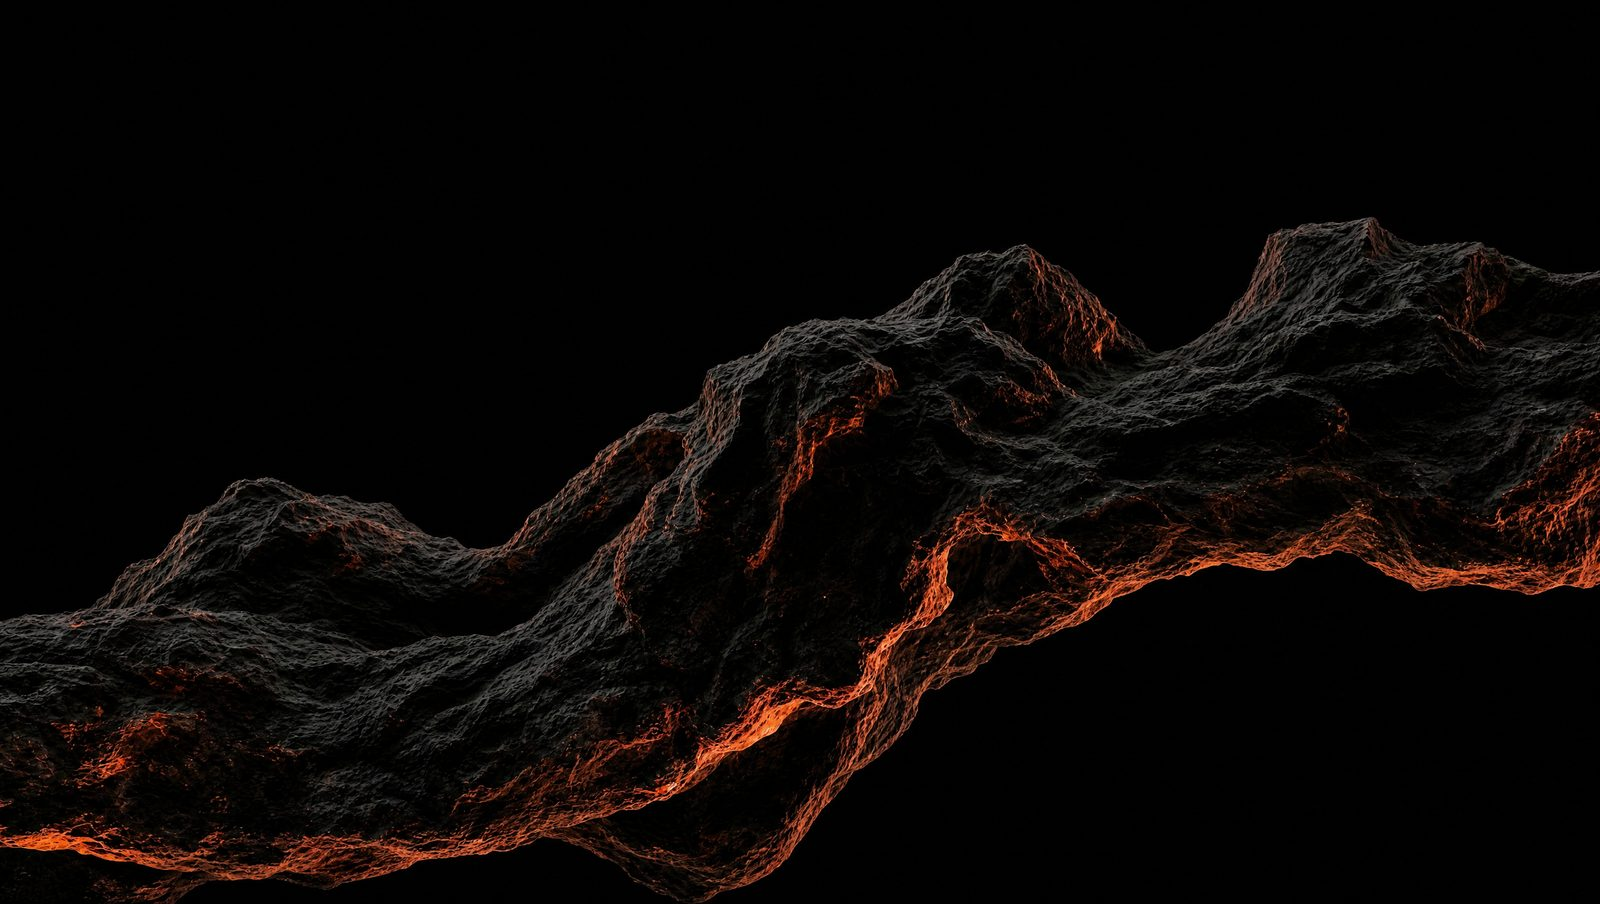
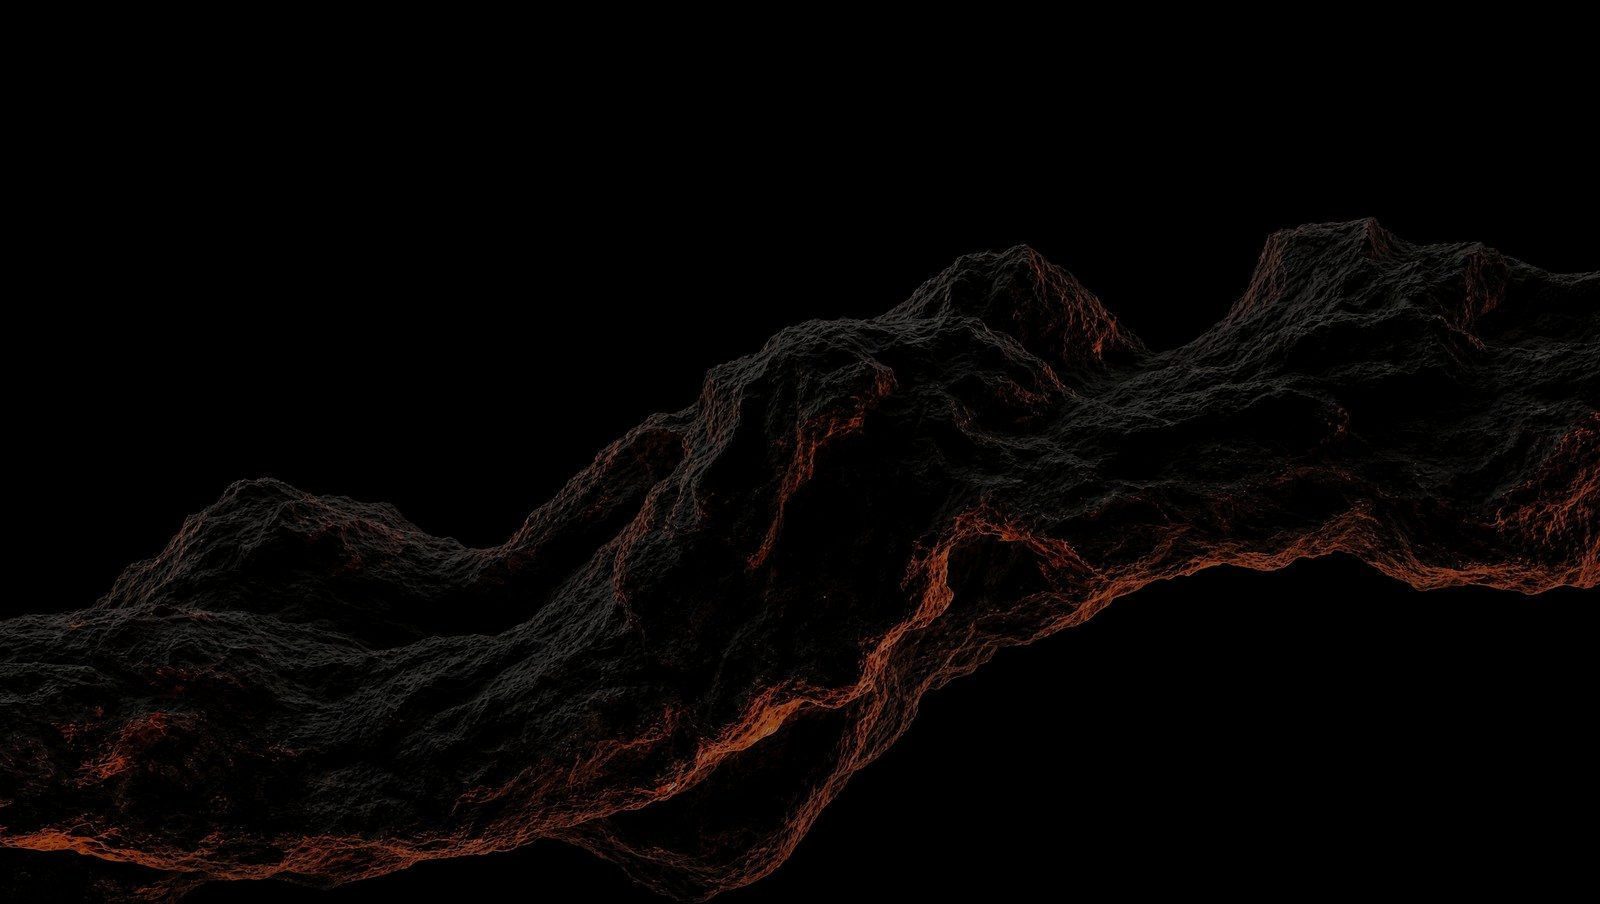
fix: 加深地层背景（图片降亮度55% + 遮罩加深），提升可读性

diff --git a/intro/css/style.css b/intro/css/style.css
@@ -26,7 +26,7 @@
   --bg: rgba(240, 247, 255, 0.66);
   --bg-soft: rgba(228, 240, 252, 0.6);
   --surface: rgba(255, 255, 255, 0.86);
-  --bg-veil: rgba(240, 247, 255, 0.88);
+  --bg-veil: rgba(240, 247, 255, 0.93);
   --text: #0F1B28;
   --text-soft: #3A4B5E;
   --muted: #6B7E92;
@@ -47,7 +47,7 @@
   --bg: rgba(8, 14, 24, 0.62);
   --bg-soft: rgba(12, 22, 36, 0.6);
   --surface: rgba(13, 24, 40, 0.82);
-  --bg-veil: rgba(6, 12, 20, 0.52);
+  --bg-veil: rgba(5, 10, 18, 0.68);
   --text: #E8F1FA;
   --text-soft: #C2D6EA;
   --muted: #8FA6BC;
